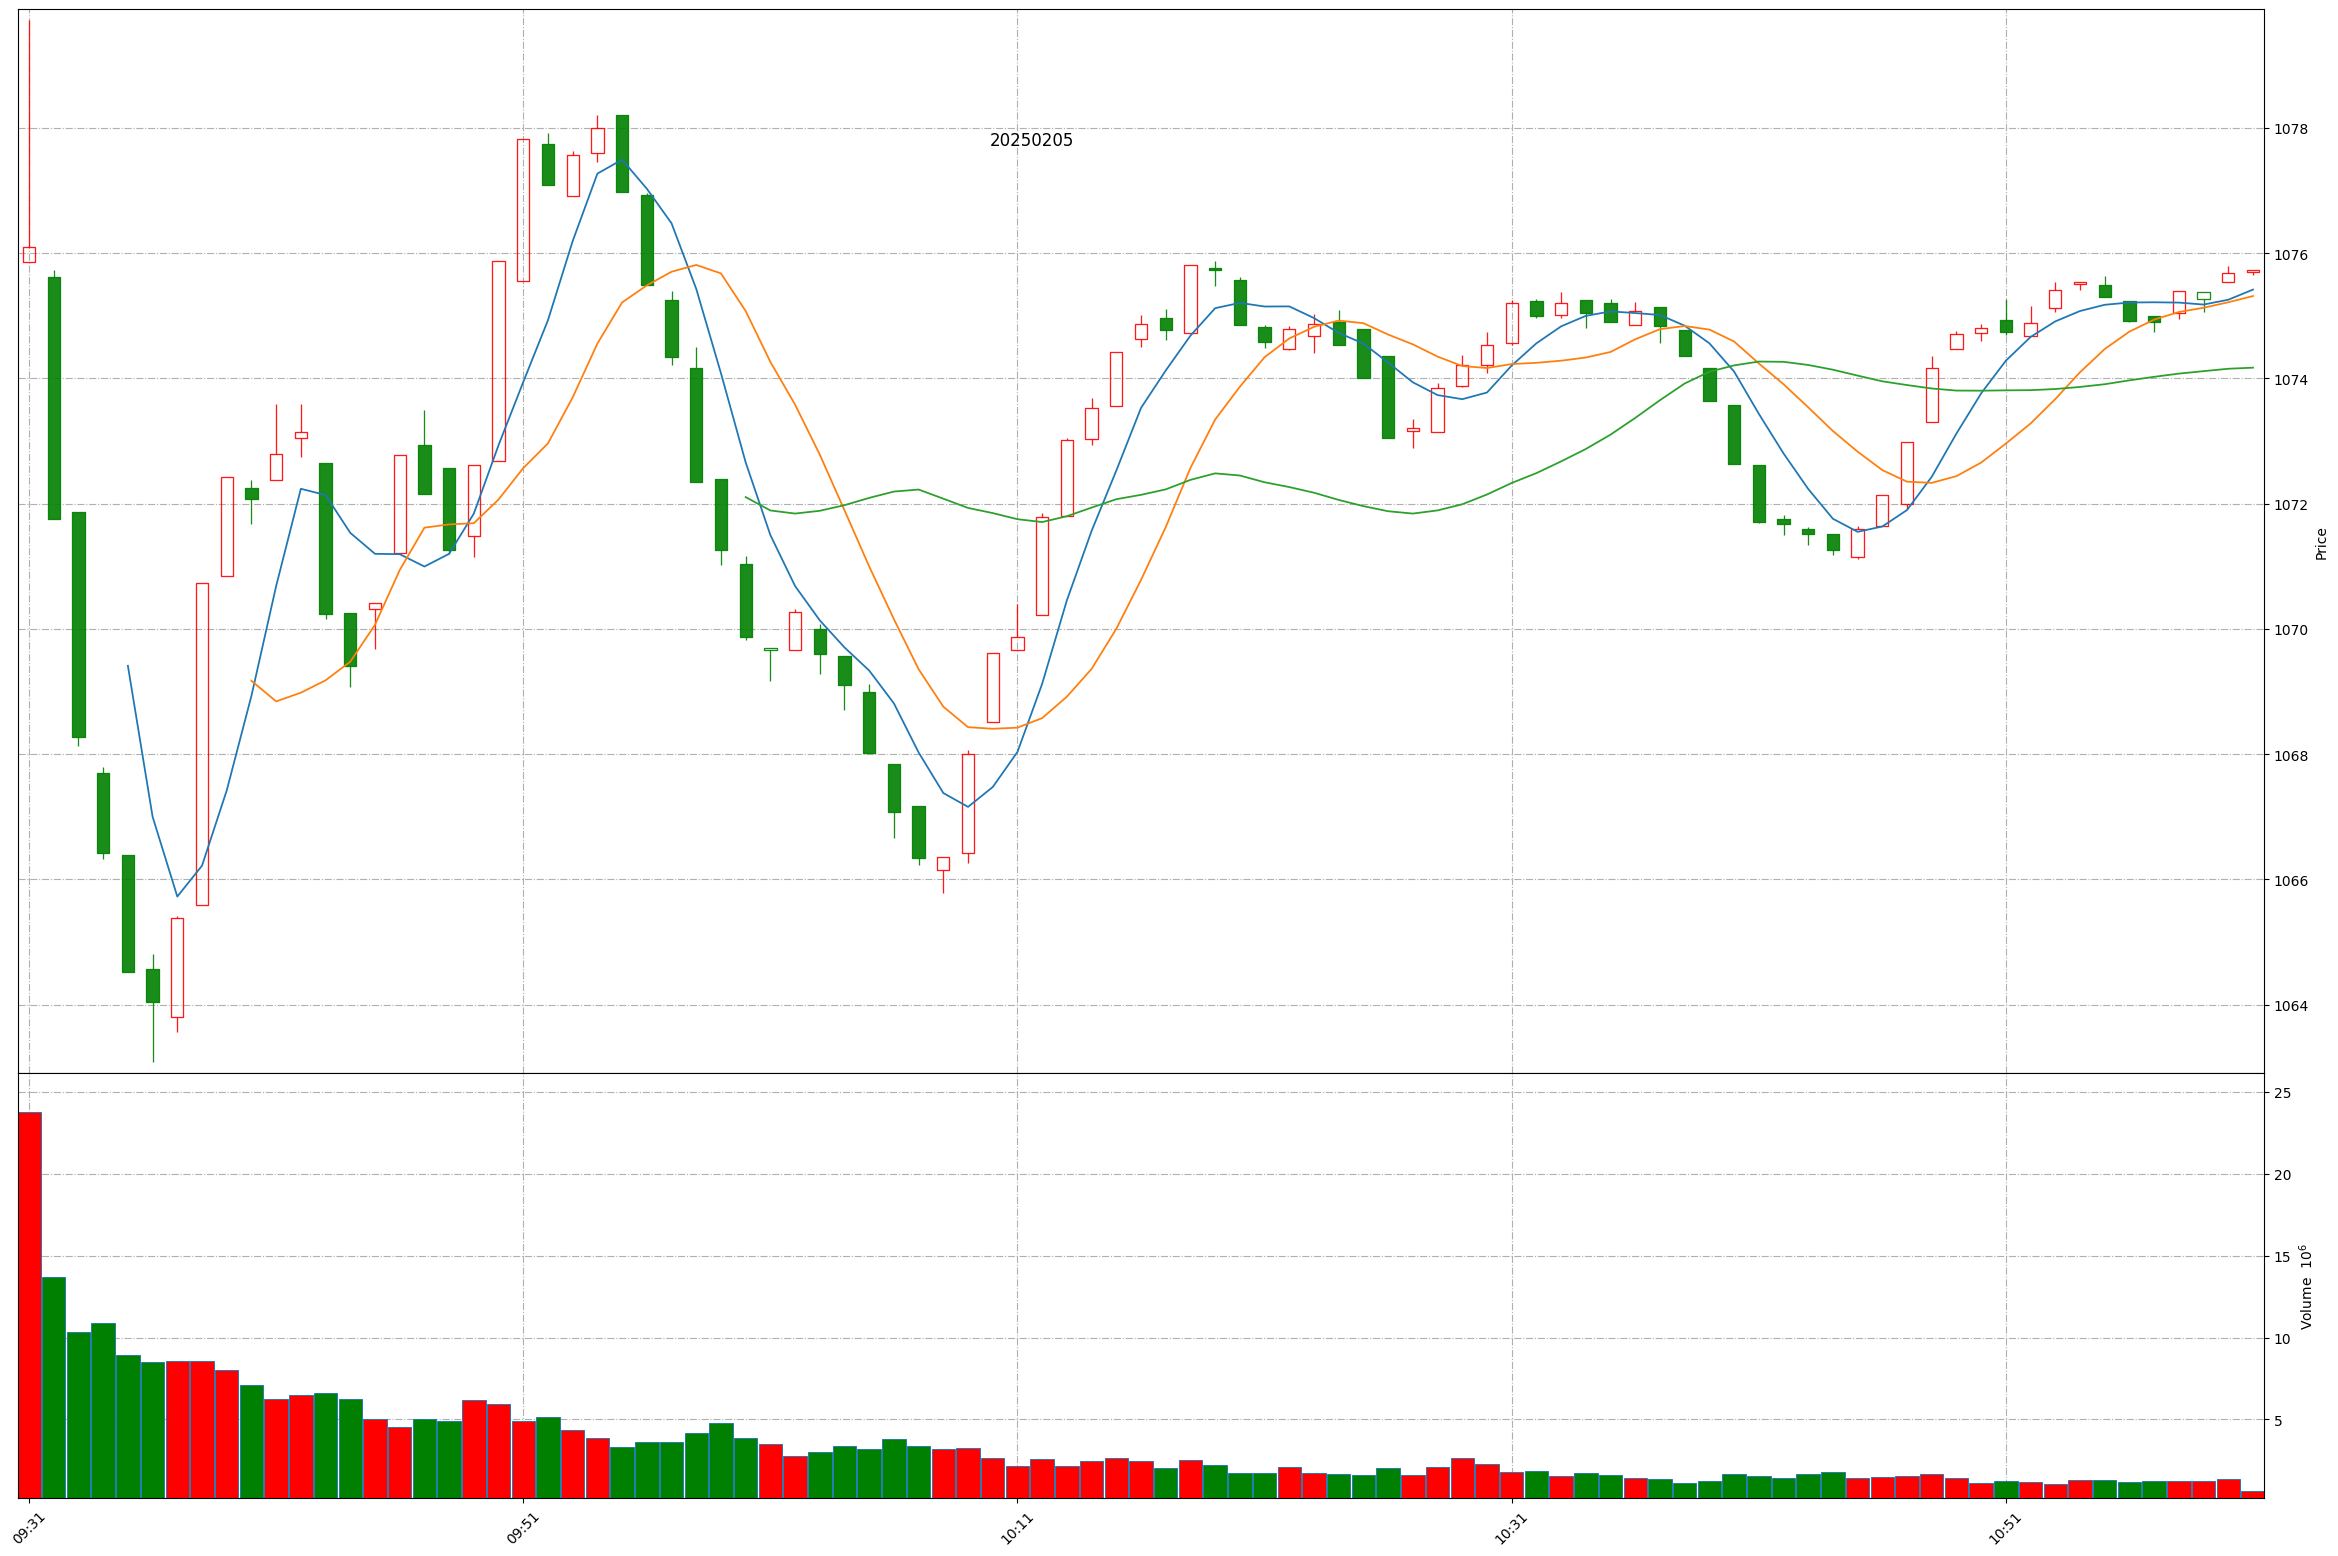
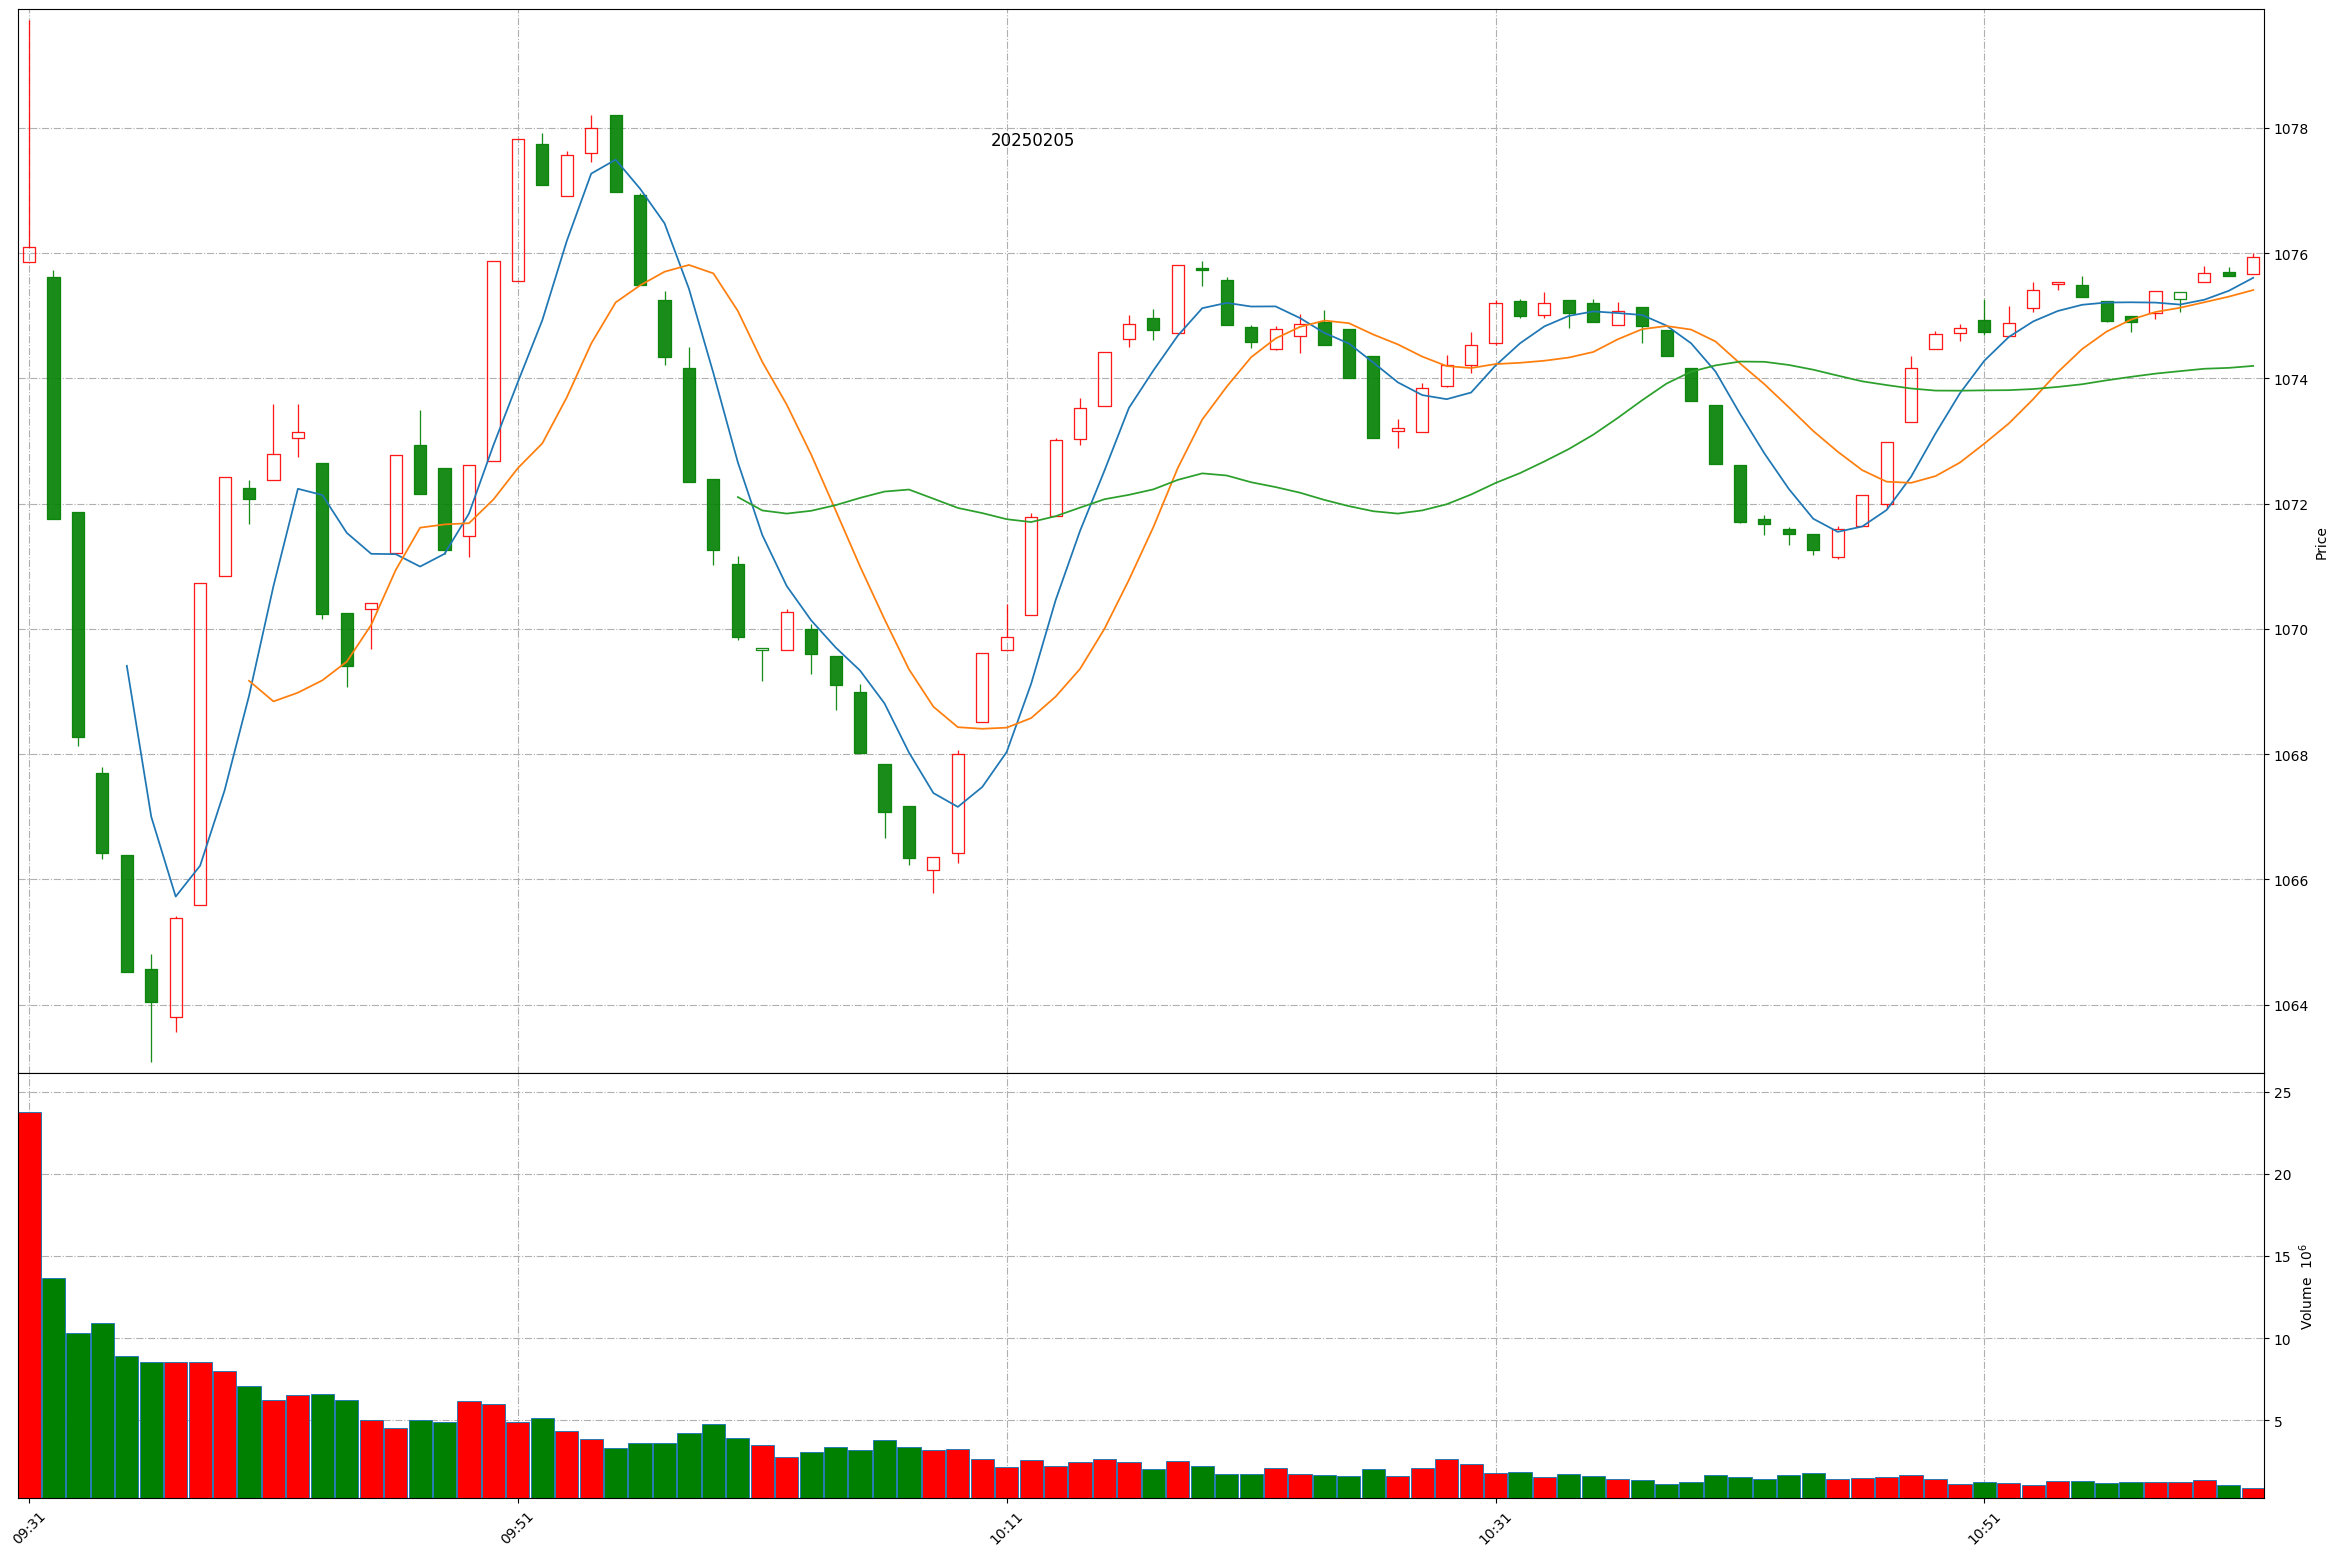
Github action update at 2025-02-05 11:01:58.

diff --git a/README.md b/README.md
@@ -1,11 +1,11 @@
 
 # Daily-A-share-market-quotes 每日 A 股指数（5min 更新）- 20250205
 
-### 上证指数 20250205 11:0
+### 上证指数 20250205 11:1
 ![](./fig/2025/2/20250205-sh000001.png)
 
-### 深证成指 20250205 11:0
+### 深证成指 20250205 11:1
 ![](./fig/2025/2/20250205-sz399001.png)
 
-### 北证50 20250205 11:0
+### 北证50 20250205 11:1
 ![](./fig/2025/2/20250205-bj899050.png)
